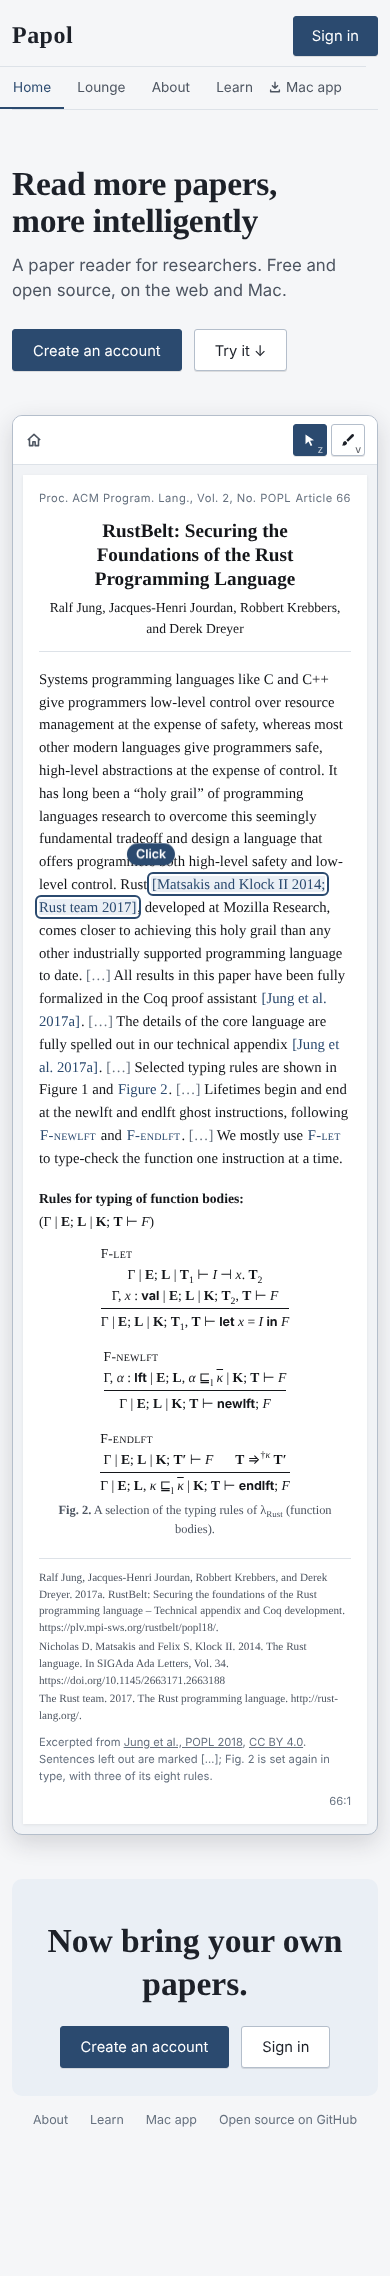
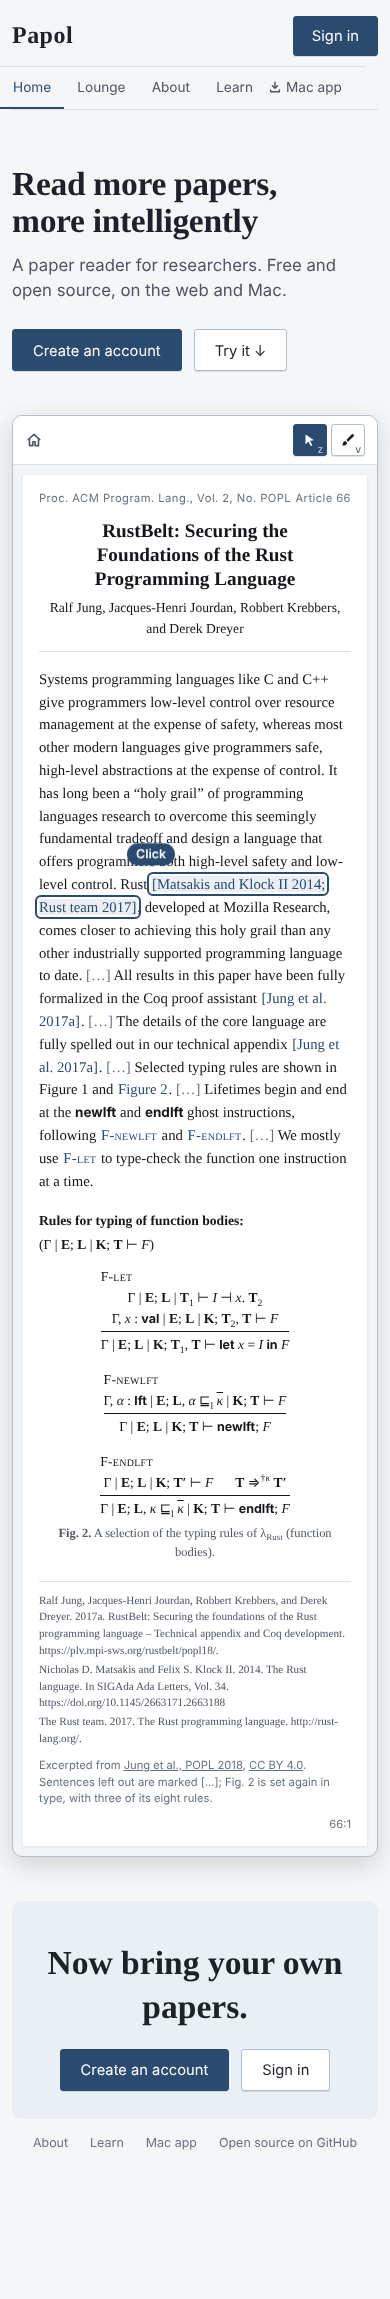
Landing demo: newlft and endlft set as the paper sets them
Claude-Session: https://claude.ai/code/session_01PQZzMUqyo1f17HpVETC8GW

diff --git a/frontend/src/components/HomeSpecimen.jsx b/frontend/src/components/HomeSpecimen.jsx
@@ -44,8 +44,9 @@ const REFERENCES = {
 
 // The page, sentence by sentence. A sentence is a list of pieces: text, a
 // citation ({ cites }: one bracketed marker, which may name several works),
-// the words that lead to the figure ({ figure }) or the name of a typing
-// rule ({ rule }). An elision marks where the paper's own sentences were
+// the words that lead to the figure ({ figure }), the name of a typing
+// rule ({ rule }) or a keyword of the calculus, set as the paper sets it
+// ({ word }). An elision marks where the paper's own sentences were
 // left out.
 const COLUMNS = [
   [
@@ -61,7 +62,7 @@ const COLUMNS = [
     { elision: true },
     { id: 's6', parts: ['Selected typing rules are shown in Figure 1 and ', { figure: 'Figure 2' }, '.'] },
     { elision: true },
-    { id: 's7', parts: ['Lifetimes begin and end at the newlft and endlft ghost instructions, following ', { rule: 'F-newlft' }, ' and ', { rule: 'F-endlft' }, '.'] },
+    { id: 's7', parts: ['Lifetimes begin and end at the ', { word: 'newlft' }, ' and ', { word: 'endlft' }, ' ghost instructions, following ', { rule: 'F-newlft' }, ' and ', { rule: 'F-endlft' }, '.'] },
     { elision: true },
     { id: 's8', parts: ['We mostly use ', { rule: 'F-let' }, ' to type-check the function one instruction at a time.'] },
   ],
@@ -286,6 +287,7 @@ export default function HomeSpecimen({ painted, onTogglePaint, flash, onGlow, be
 
   const renderPart = (block, part, i) => {
     if (typeof part === 'string') return part;
+    if (part.word) return <b key={i} className="rule-word">{part.word}</b>;
     const at = `${block.id}-${i}`;
     if (part.figure) {
       return (
